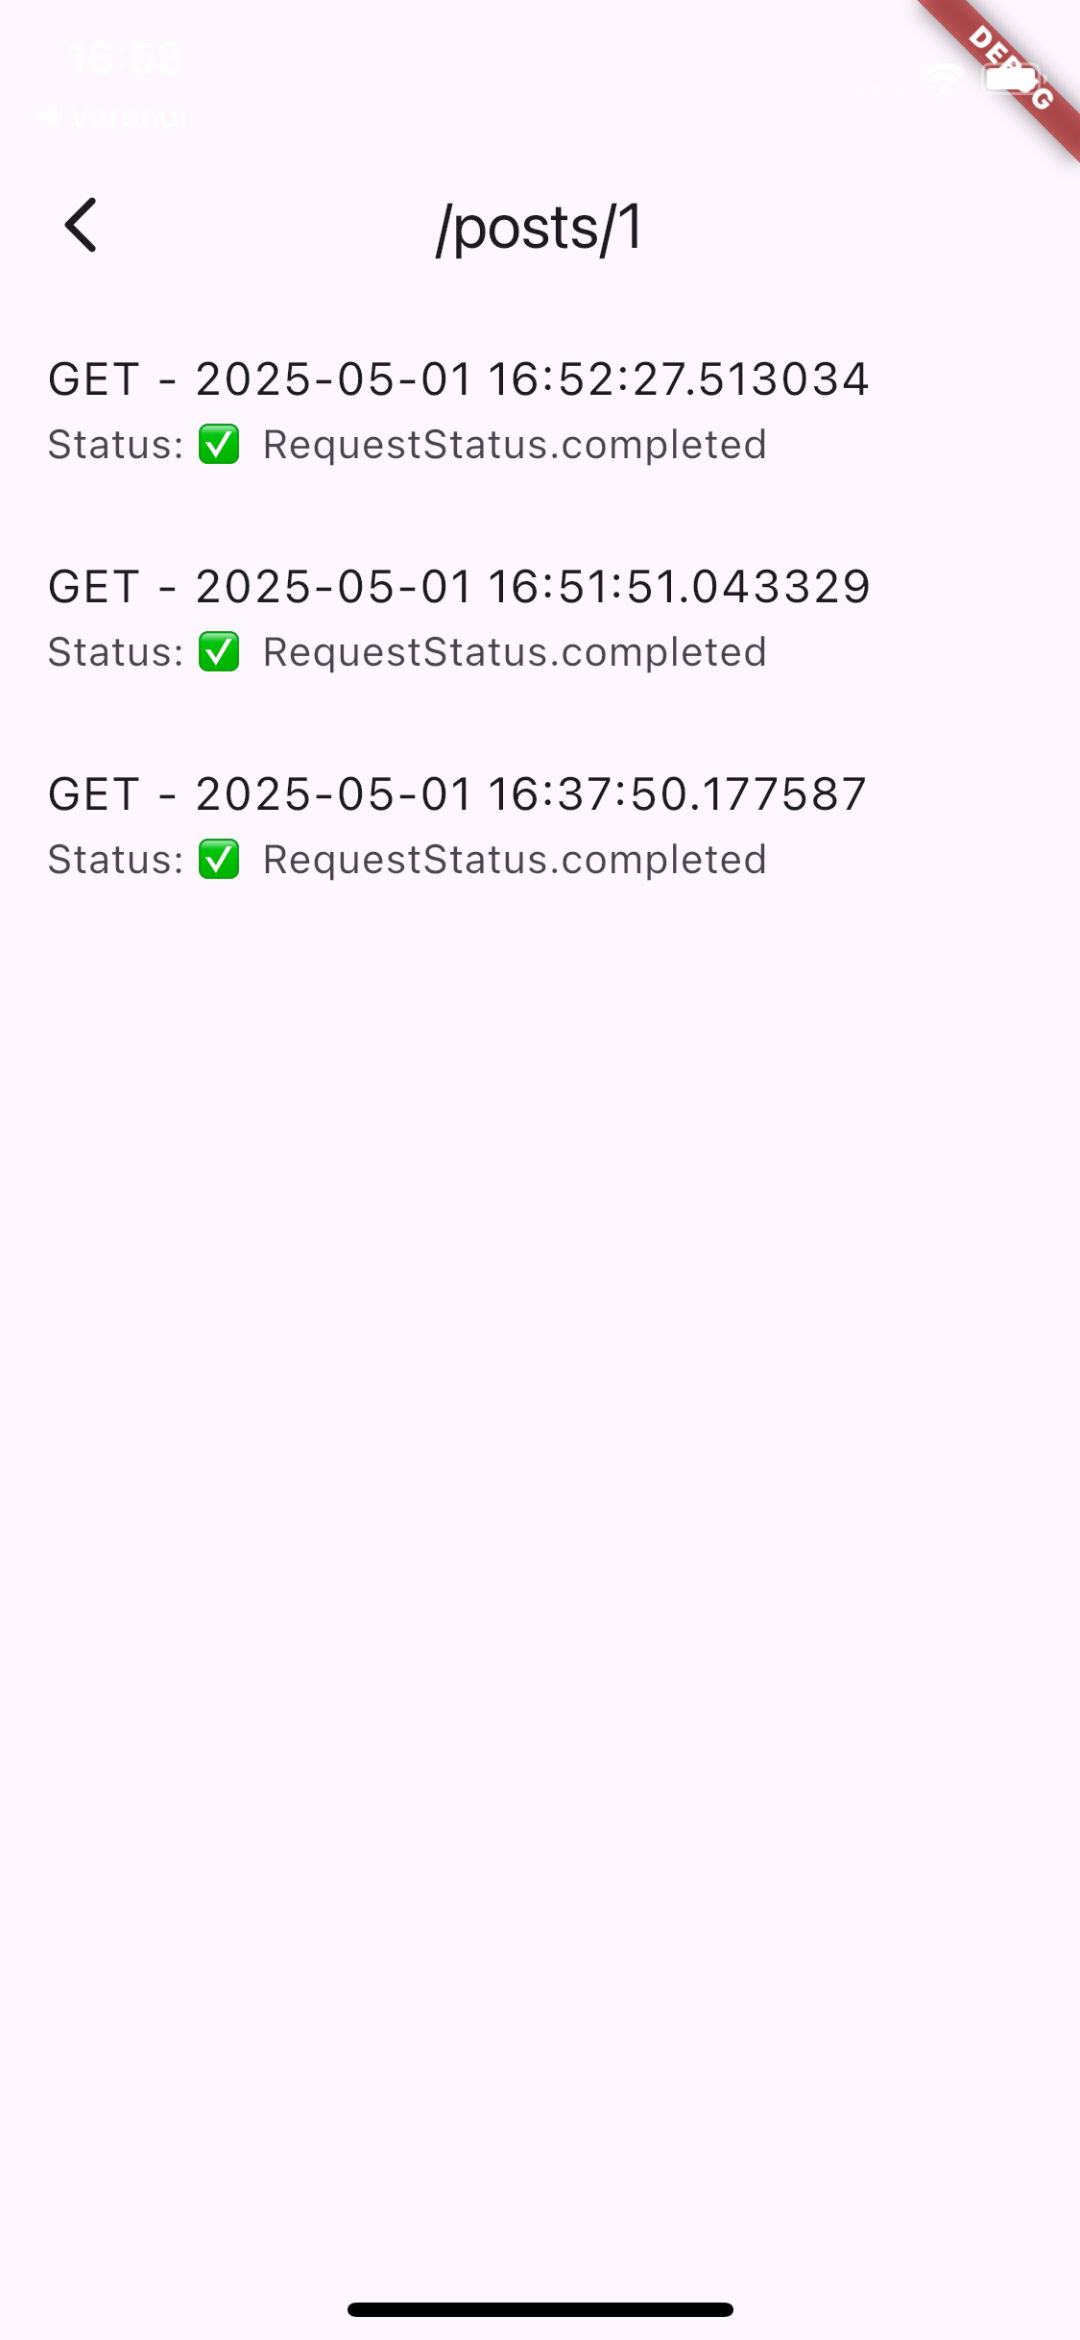
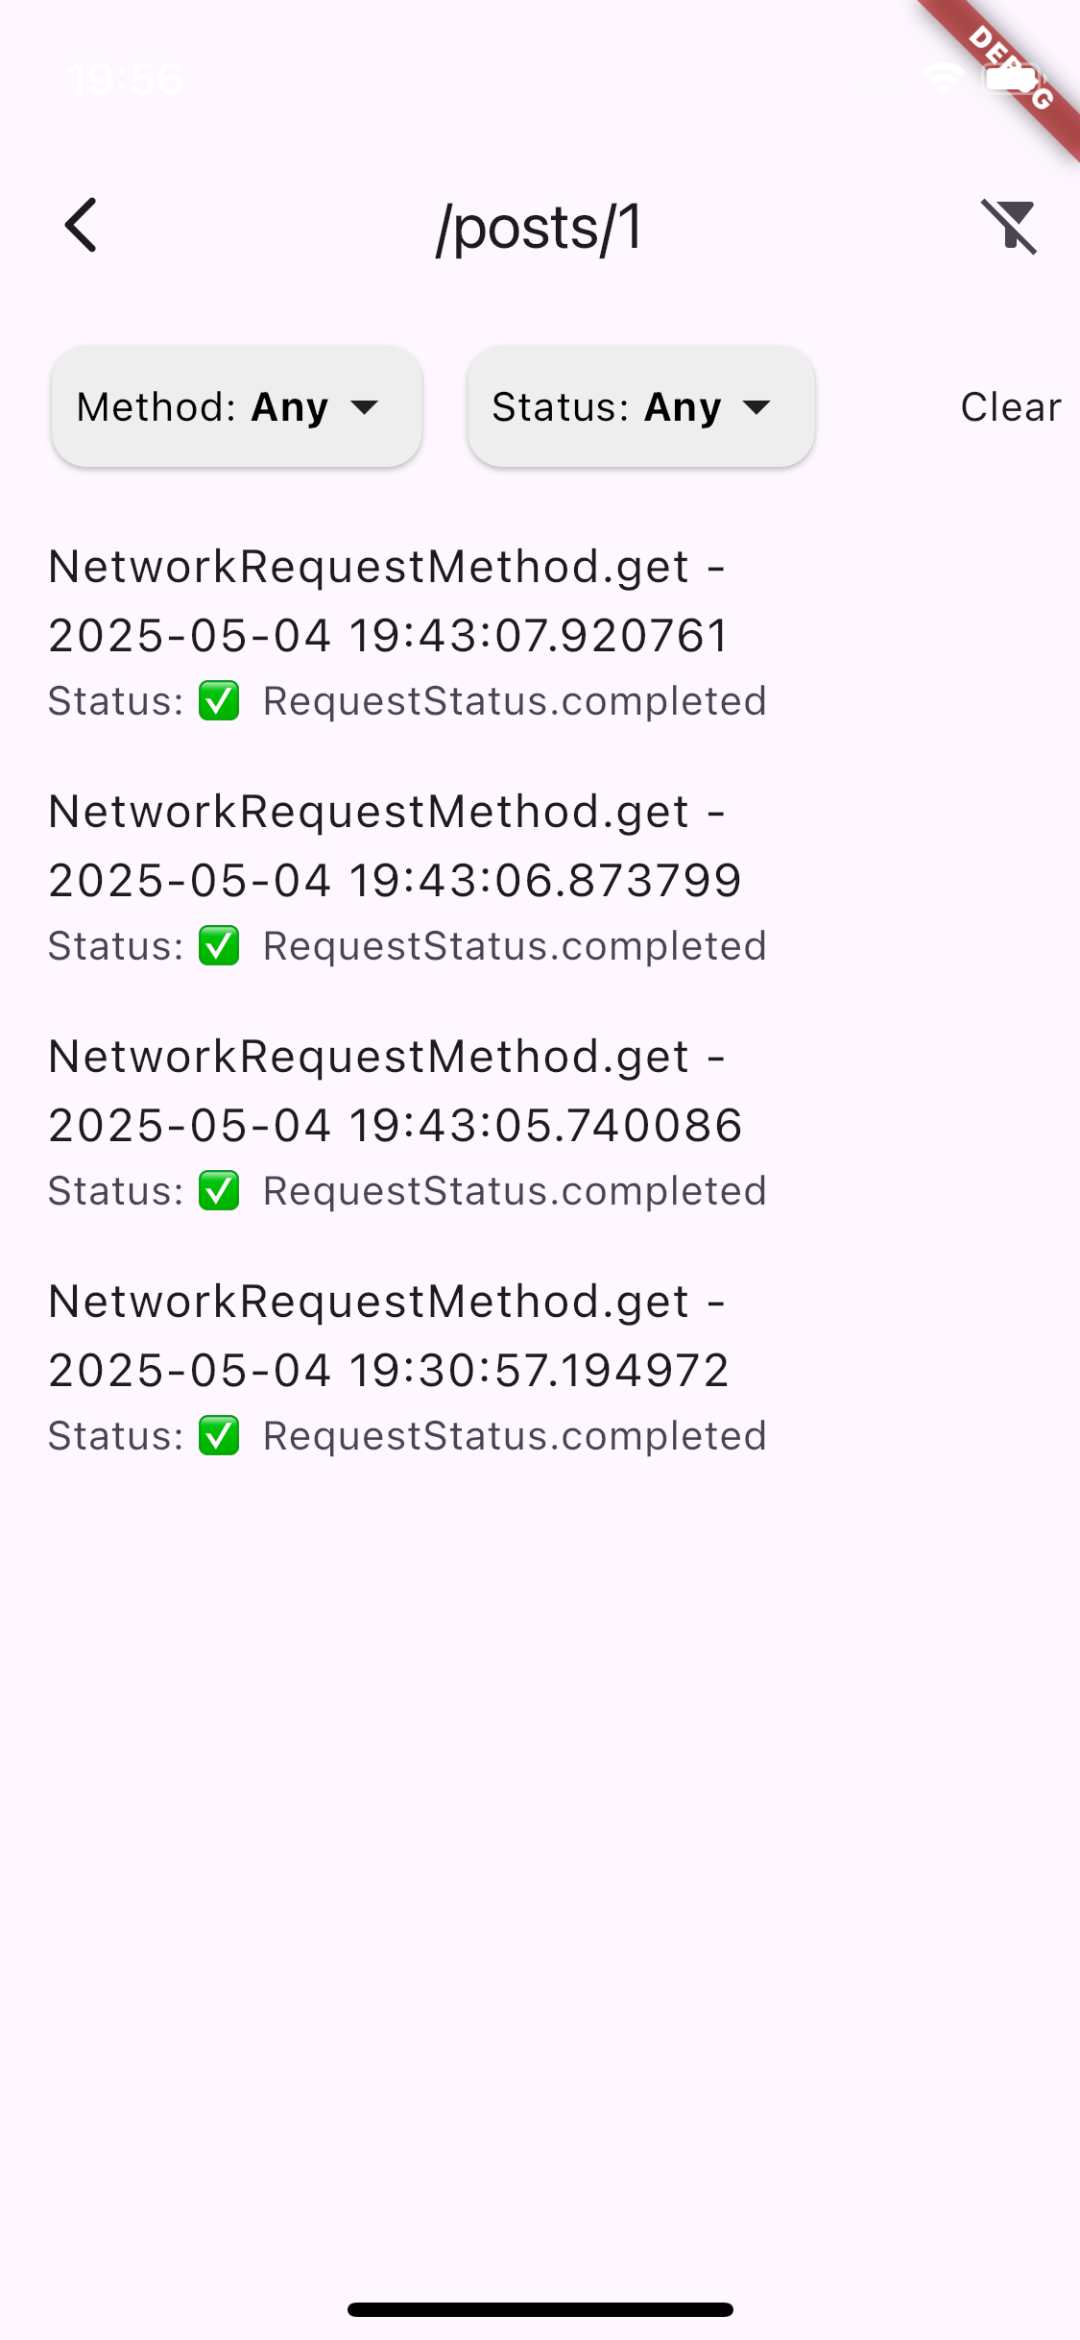
Update screenshots

diff --git a/lib/src/ui/request_details_screen/request_details_screen.dart b/lib/src/ui/request_details_screen/request_details_screen.dart
@@ -57,21 +57,24 @@ class _RequestDetailsScreenState extends State<RequestDetailsScreen> {
       valueListenable: _showFilterBar,
       builder: (c, v, w) {
         if (v) {
-          return Column(
-            mainAxisSize: MainAxisSize.min,
-            children: [
-              const SizedBox(height: 10),
-              ValueListenableBuilder(
-                valueListenable: _vm.filterNotifier,
-                builder: (c, v, w) {
-                  return FilterBar(
-                    filter: v,
-                    onChange: _vm.onFilterChanged,
-                    onClear: _vm.clearFilter,
-                  );
-                },
-              )
-            ],
+          return Padding(
+            padding: EdgeInsets.symmetric(horizontal: 6),
+            child: Column(
+              mainAxisSize: MainAxisSize.min,
+              children: [
+                const SizedBox(height: 10),
+                ValueListenableBuilder(
+                  valueListenable: _vm.filterNotifier,
+                  builder: (c, v, w) {
+                    return FilterBar(
+                      filter: v,
+                      onChange: _vm.onFilterChanged,
+                      onClear: _vm.clearFilter,
+                    );
+                  },
+                )
+              ],
+            ),
           );
         }
 
